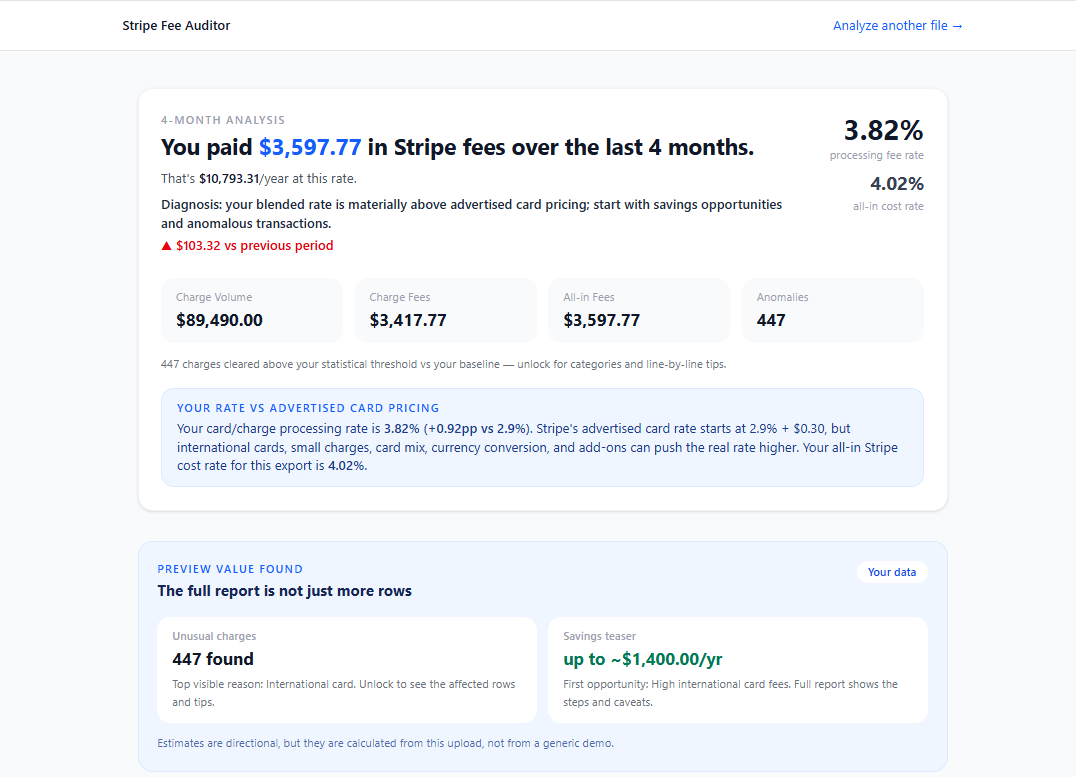
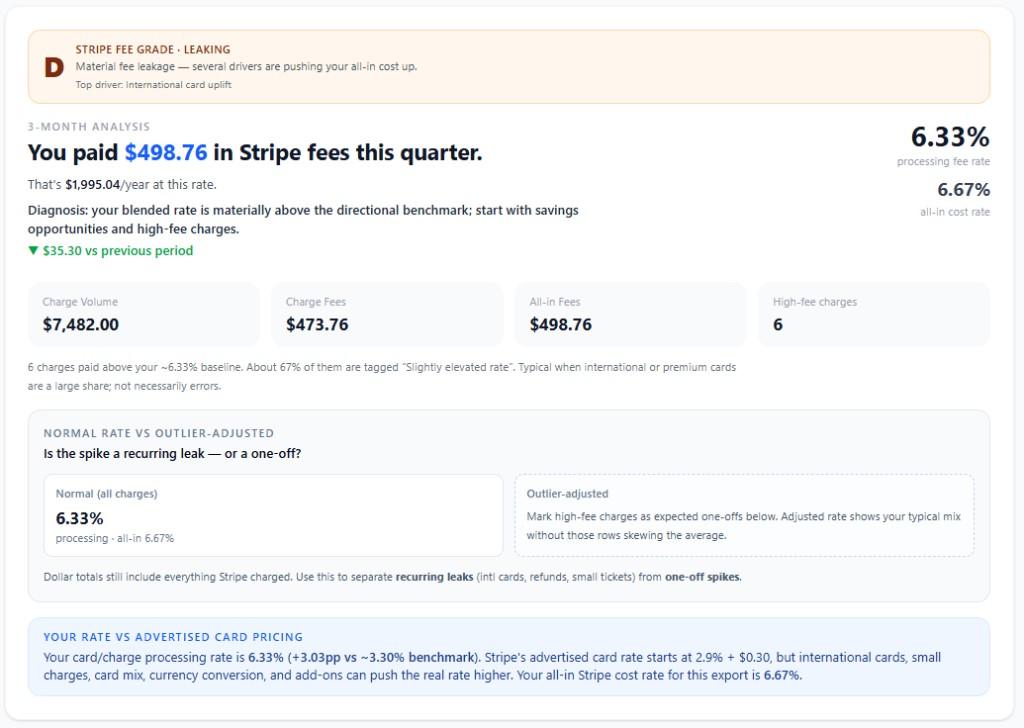
fix(pricing): align CA/AU rates and refresh homepage proof screenshot
Update stripe-country-fees for 2025-2026 published pricing, add FAQ/disclaimer copy for refunds, disputes, Billing 0.7%, and Plans and fees. Replace landing report-preview with Fee Grade sample and sync proof stats.

diff --git a/components/LandingFaq.tsx b/components/LandingFaq.tsx
@@ -90,6 +90,113 @@ export const LANDING_FAQ_ITEMS = [
     ),
   },
   {
+    id: "stripe-refund-policy",
+    q: "Does Stripe return fees when I refund a payment?",
+    text: [
+      "No. Per Stripe's pricing FAQ, when you issue a refund Stripe does not return the processing fees, Connect fees, or currency conversion fees from the original transaction. That can raise your blended effective rate if refunds are common.",
+    ],
+    a: (
+      <p>
+        No. Per{" "}
+        <a
+          href="https://stripe.com/pricing"
+          className="text-blue-600 underline hover:text-blue-800"
+          target="_blank"
+          rel="noopener noreferrer"
+        >
+          Stripe&apos;s pricing FAQ
+        </a>
+        , when you issue a refund Stripe does <strong>not</strong> return the processing fees, Connect fees, or
+        currency conversion fees from the original transaction. That can raise your blended effective rate if
+        refunds are common.
+      </p>
+    ),
+  },
+  {
+    id: "stripe-disputes",
+    q: "What do Stripe disputes and Smart Disputes cost?",
+    text: [
+      "Stripe charges a $15 fee when a dispute is received; that fee is refunded if you win the dispute. Smart Disputes (when enabled) adds 30% of the disputed amount when you win — on top of card processing fees.",
+    ],
+    a: (
+      <p>
+        Stripe charges a <strong>$15</strong> fee when a dispute is received; that fee is refunded if you win the
+        dispute. <strong>Smart Disputes</strong> (when enabled) adds <strong>30% of the disputed amount</strong> when
+        you win — on top of card processing fees. See{" "}
+        <a
+          href="https://stripe.com/pricing"
+          className="text-blue-600 underline hover:text-blue-800"
+          target="_blank"
+          rel="noopener noreferrer"
+        >
+          stripe.com/pricing
+        </a>
+        .
+      </p>
+    ),
+  },
+  {
+    id: "stripe-billing-fees",
+    q: "Does Stripe Billing add fees on top of card processing?",
+    text: [
+      "Yes. Stripe Billing is 0.7% of billing volume (subscriptions, invoices, usage-based billing) on top of standard card processing fees. Tax, Radar, BNPL, and other products have separate published rates.",
+    ],
+    a: (
+      <p>
+        Yes.{" "}
+        <a
+          href="https://stripe.com/billing/pricing"
+          className="text-blue-600 underline hover:text-blue-800"
+          target="_blank"
+          rel="noopener noreferrer"
+        >
+          Stripe Billing
+        </a>{" "}
+        is <strong>0.7%</strong> of billing volume (subscriptions, invoices, usage-based billing) on top of standard
+        card processing fees. Tax, Radar, BNPL, and other products have separate published rates.
+      </p>
+    ),
+  },
+  {
+    id: "stripe-custom-pricing",
+    q: "Why might my Stripe rate differ from published pricing?",
+    text: [
+      "Many accounts have custom or interchange-plus pricing. Regional card mix, manually entered cards (+0.5%), and product add-ons also change the blended rate. Check Dashboard → Settings → Plans and fees for your contract rates.",
+    ],
+    a: (
+      <p>
+        Many accounts have <strong>custom or interchange-plus pricing</strong>. Regional card mix, manually entered
+        cards (+0.5%), and product add-ons also change the blended rate. Check{" "}
+        <strong>Dashboard → Settings → Plans and fees</strong> for your contract rates — our calculator and benchmarks
+        use published list pricing unless noted.
+      </p>
+    ),
+  },
+  {
+    id: "stripe-regional-rates",
+    q: "Do Stripe fees differ by country?",
+    text: [
+      "Yes. Domestic and international card rates vary by account country (US, UK, EU, CA, AU, etc.). UK and EU use tiered cross-border uplifts; Canada international cards add 0.8%; Australia domestic is 1.7% + A$0.30 with lower pricing from 1 Oct 2026.",
+    ],
+    a: (
+      <p>
+        Yes. Domestic and international card rates vary by account country (US, UK, EU, CA, AU, etc.). UK and EU use
+        tiered cross-border uplifts; Canada international cards add <strong>0.8%</strong>; Australia domestic is{" "}
+        <strong>1.7% + A$0.30</strong> with lower pricing from <strong>1 Oct 2026</strong>. Our fee estimator lets you
+        pick a region; exact tiers are on{" "}
+        <a
+          href="https://stripe.com/pricing"
+          className="text-blue-600 underline hover:text-blue-800"
+          target="_blank"
+          rel="noopener noreferrer"
+        >
+          stripe.com/pricing
+        </a>
+        .
+      </p>
+    ),
+  },
+  {
     id: "chatgpt",
     q: "Can I just paste my Stripe CSV into ChatGPT?",
     text: [

diff --git a/app/stripe-fee-calculator/page.tsx b/app/stripe-fee-calculator/page.tsx
@@ -106,6 +106,26 @@ const faqItems = [
       "For many US online card payments, Stripe's published rate is 2.9% + $0.30 per successful charge. On a $100 domestic card payment that is about $3.20 (3.2% effective). International cards, currency conversion, refunds, and small tickets can push the blended rate higher — use the calculator above for your mix, then upload a Balance CSV to see your real rate.",
   },
   {
+    question: "Is this calculator using my actual Stripe rates?",
+    answer:
+      "No. This page uses Stripe's published list pricing by region. Custom or interchange-plus accounts may differ — check Dashboard → Settings → Plans and fees. Upload a Balance CSV to see your real effective rate.",
+  },
+  {
+    question: "Does Stripe return fees when I refund a payment?",
+    answer:
+      "No. Per Stripe's pricing FAQ, when you issue a refund Stripe does not return the processing fees, Connect fees, or currency conversion fees from the original transaction.",
+  },
+  {
+    question: "What do Stripe disputes cost?",
+    answer:
+      "Stripe charges a $15 fee when a dispute is received (refunded if you win). Smart Disputes, when enabled, adds 30% of the disputed amount when you win — on top of card processing fees.",
+  },
+  {
+    question: "Does Stripe Billing add fees on top of card processing?",
+    answer:
+      "Yes. Stripe Billing is 0.7% of billing volume on top of standard card processing fees. See stripe.com/billing/pricing.",
+  },
+  {
     question: "Is this a Stripe fee estimator or a real calculator?",
     answer:
       "The on-page Stripe fees calculator estimates fees from public pricing. Stripe Fee Auditor calculates your real effective Stripe fee rate from your Balance Transactions CSV, so you can compare the estimate with actual numbers.",
@@ -123,7 +143,7 @@ const faqItems = [
   {
     question: "Why can my effective Stripe rate be higher than the published rate?",
     answer:
-      "International cards, currency conversion, refunds, Radar charges, disputes, and micro-transactions can all push your blended effective rate above Stripe's standard published rate.",
+      "International cards, currency conversion, refunds (fees not returned), Stripe Billing (0.7%), Radar, disputes ($15 + Smart Disputes 30% on win), and micro-transactions can all push your blended effective rate above Stripe's standard published rate.",
   },
 ];
 
@@ -195,6 +215,12 @@ export default function StripeFeeCalculatorPage() {
             Stripe Fee Auditor is built for SaaS, ecommerce, subscription, and
             marketplace teams that need a Stripe fee calculator based on actual
             Balance CSV exports instead of averages.
+          </p>
+          <p className="text-sm text-gray-500 leading-relaxed mt-3 rounded-xl border border-gray-100 bg-gray-50 px-4 py-3">
+            Estimates below use Stripe&apos;s <strong>published rates</strong> by region (2025–2026). Your account
+            may differ if you have custom or interchange-plus pricing — confirm in{" "}
+            <strong>Dashboard → Settings → Plans and fees</strong>. Add-ons (Billing 0.7%, disputes, refunds) are
+            not included in the card-fee math.
           </p>
         </div>
 

diff --git a/app/what-percent-does-stripe-take/page.tsx b/app/what-percent-does-stripe-take/page.tsx
@@ -59,7 +59,7 @@ const faqItems = [
   {
     question: "How much does Stripe charge per transaction?",
     answer:
-      "For many US online card payments, Stripe charges 2.9% + $0.30 per successful domestic card transaction. On $100 that is about $3.20. International cards often add about 1.5 percentage points, and currency conversion can add roughly another 1%. Your blended rate across a month is usually higher than any single published line — check it from your Balance CSV.",
+      "For many US online card payments, Stripe charges 2.9% + $0.30 per successful domestic card transaction. On $100 that is about $3.20. International cards often add about 1.5 percentage points, and currency conversion can add roughly another 1%. Rates vary by country — check Dashboard → Settings → Plans and fees for your account.",
   },
   {
     question: "What percentage does Stripe take from a payment?",
@@ -67,9 +67,14 @@ const faqItems = [
       "For many US online card payments, Stripe's published rate starts at 2.9% plus $0.30 per successful charge. The effective percentage on a single charge depends on the charge amount because the fixed $0.30 fee is larger on small payments.",
   },
   {
+    question: "Does Stripe return fees when I refund a payment?",
+    answer:
+      "No. Per Stripe's pricing FAQ, when you issue a refund Stripe does not return the processing fees, Connect fees, or currency conversion fees from the original transaction.",
+  },
+  {
     question: "Why is my real Stripe rate higher than 2.9%?",
     answer:
-      "International cards, currency conversion, Stripe Billing fees, refunds, disputes, Radar, and small transaction sizes can all push your real blended Stripe rate above the headline percentage.",
+      "International cards, currency conversion, Stripe Billing (0.7% on billing volume), refunds (fees not returned), disputes ($15 + Smart Disputes 30% on win), Radar, and small transaction sizes can all push your real blended Stripe rate above the headline percentage.",
   },
   {
     question: "How do I check the actual percentage Stripe took?",
@@ -142,6 +147,10 @@ export default function WhatPercentDoesStripeTakePage() {
             <strong className="text-gray-900">2.9% + $0.30</strong> per successful charge
             (about $3.20 on $100). The real percentage you pay can be higher once small charges,
             international cards, currency conversion, refunds, and other Stripe fee lines show up.
+          </p>
+          <p className="mt-3 text-sm leading-relaxed text-gray-500 rounded-xl border border-gray-100 bg-gray-50 px-4 py-3">
+            Published list rates only — custom or interchange-plus pricing may differ. Confirm yours in{" "}
+            <strong>Dashboard → Settings → Plans and fees</strong>.
           </p>
         </header>
 

diff --git a/app/why-stripe-fee-rate-higher-than-2-9/page.tsx b/app/why-stripe-fee-rate-higher-than-2-9/page.tsx
@@ -79,18 +79,25 @@ const reasons = [
     number: "03",
     title: "Refunds",
     description:
-      "Stripe keeps the processing fee when you issue a refund. The original transaction fee is not returned. A 5% refund rate adds meaningful cost across large volumes.",
+      "Per Stripe's pricing FAQ, when you issue a refund Stripe does not return the processing fees, Connect fees, or currency conversion fees from the original transaction. A 5% refund rate adds meaningful cost across large volumes.",
     example: "5% refund rate on $100k revenue = $145 in non-refundable fees",
   },
   {
     number: "04",
+    title: "Disputes",
+    description:
+      "Each dispute carries a $15 received fee (refunded if you win). Smart Disputes adds 30% of the disputed amount when you win — on top of card processing.",
+    example: "$100 disputed charge won with Smart Disputes: $15 fee refunded + $30 Smart Disputes fee",
+  },
+  {
+    number: "05",
     title: "Stripe Radar",
     description:
       "If you use Radar for fraud protection beyond the basic included tier, there's an additional $0.02–$0.07 per transaction. This shows up as a separate line in your Balance report.",
     example: "1,000 transactions × $0.05 Radar fee = $50/month extra",
   },
   {
-    number: "05",
+    number: "06",
     title: "Micro-Transactions",
     description:
       "On small charges, the fixed $0.30 component dominates. A $2.00 charge has an effective rate of 17.9% — this drags up your average significantly if you have many small payments.",
@@ -107,7 +114,12 @@ const faqItems = [
   {
     question: "Does Stripe return processing fees when I refund a payment?",
     answer:
-      "No. When you issue a refund, Stripe generally does not return the original processing fee. This can increase your effective fee rate if your business has a meaningful refund rate.",
+      "No. Per Stripe's pricing FAQ, when you issue a refund Stripe does not return the processing fees, Connect fees, or currency conversion fees from the original transaction. This can increase your effective fee rate if your business has a meaningful refund rate.",
+  },
+  {
+    question: "What do Stripe disputes and Smart Disputes cost?",
+    answer:
+      "Stripe charges a $15 fee when a dispute is received (refunded if you win). Smart Disputes, when enabled, adds 30% of the disputed amount when you win.",
   },
   {
     question: "How can I calculate my real Stripe effective fee rate?",

diff --git a/lib/stripe-country-fees.ts b/lib/stripe-country-fees.ts
@@ -1,4 +1,9 @@
-/** Published Stripe card pricing by account country — illustrative, not a live API. */
+/**
+ * Published Stripe card pricing by account country — illustrative, not a live API.
+ * Source: stripe.com/{us,gb,ie,ca,au}/pricing (2025–2026). Simplified cross-border uplifts;
+ * UK/EU use tiered intl rates on Stripe's site (+1.9%/+2.9% UK, +1.1% EU non-EEA) — see FAQ.
+ * Custom/IC+ accounts: Dashboard → Settings → Plans and fees.
+ */
 
 export type StripeAccountCountry = "US" | "UK" | "EU" | "CA" | "AU";
 
@@ -34,6 +39,7 @@ export const STRIPE_ACCOUNT_COUNTRIES: CountryFeeProfile[] = [
     label: "United Kingdom",
     domesticPercent: 0.015,
     domesticFixed: 0.2,
+    /** Simplified; Stripe GB: +1.9% non-UK EEA cards, +2.9% non-EEA — stripe.com/gb/pricing */
     crossBorderPercent: 0.015,
     currencyConversionPercent: 0.02,
     currency: "GBP",
@@ -44,6 +50,7 @@ export const STRIPE_ACCOUNT_COUNTRIES: CountryFeeProfile[] = [
     label: "European Union",
     domesticPercent: 0.015,
     domesticFixed: 0.25,
+    /** Simplified; Stripe EU: +1.1% for cards issued outside EEA — stripe.com/ie/pricing */
     crossBorderPercent: 0.015,
     currencyConversionPercent: 0.02,
     currency: "EUR",
@@ -57,7 +64,8 @@ export const STRIPE_ACCOUNT_COUNTRIES: CountryFeeProfile[] = [
     label: "Canada",
     domesticPercent: 0.029,
     domesticFixed: 0.3,
-    crossBorderPercent: 0.015,
+    /** International cards: +0.8% — stripe.com/ca/pricing */
+    crossBorderPercent: 0.008,
     currencyConversionPercent: 0.02,
     currency: "CAD",
     domesticCardCountries: ["CA"],
@@ -65,9 +73,11 @@ export const STRIPE_ACCOUNT_COUNTRIES: CountryFeeProfile[] = [
   {
     id: "AU",
     label: "Australia",
-    domesticPercent: 0.0175,
+    /** Domestic online cards: 1.7% + A$0.30 — stripe.com/au/pricing (lower pricing from 1 Oct 2026). */
+    domesticPercent: 0.017,
     domesticFixed: 0.3,
-    crossBorderPercent: 0.015,
+    /** International cards: +2.0% — stripe.com/au/pricing */
+    crossBorderPercent: 0.02,
     currencyConversionPercent: 0.02,
     currency: "AUD",
     domesticCardCountries: ["AU"],

diff --git a/app/page.tsx b/app/page.tsx
@@ -43,10 +43,10 @@ const hasReportsAnalyzedCount = Number.isFinite(reportsAnalyzedCount) && reports
 const reportsAnalyzedLabel = new Intl.NumberFormat("en-US").format(reportsAnalyzedCount);
 
 const PROOF_STATS = [
-  { label: "Stripe fees", value: "$3,597.77" },
-  { label: "Processing rate", value: "3.82%" },
-  { label: "All-in cost", value: "4.02%" },
-  { label: "High-fee charges", value: "447" },
+  { label: "Stripe fees (quarter)", value: "$498.76" },
+  { label: "Processing rate", value: "6.33%" },
+  { label: "All-in cost", value: "6.67%" },
+  { label: "Fee grade", value: "D" },
 ] as const;
 
 const PAIN_LINKS = [
@@ -288,9 +288,9 @@ export default function HomePage() {
           <div className="mt-10 overflow-hidden rounded-2xl border border-slate-200 bg-white shadow-xl shadow-slate-200/60">
             <Image
               src="/screenshots/report-preview.png"
-              alt="Stripe Fee Auditor report showing $3,597.77 in fees, 3.82% processing rate, 4.02% all-in cost rate, and savings teaser"
-              width={1076}
-              height={777}
+              alt="Stripe Fee Auditor report: Fee Grade D, $498.76 in quarter fees, 6.33% processing rate, 6.67% all-in cost, and comparison vs advertised 2.9% card pricing"
+              width={1024}
+              height={728}
               sizes="(min-width: 1024px) 960px, 100vw"
               className="h-auto w-full"
             />

diff --git a/components/stripe-fee-mini-estimate.tsx b/components/stripe-fee-mini-estimate.tsx
@@ -240,9 +240,10 @@ export function StripeFeeMiniEstimate({ compact = false }: Props) {
           <p className="mt-4 text-xs leading-relaxed text-gray-500">
             {estimate.monthlyVolume > 0 && estimate.midRate > estimate.publishedRate
               ? `Your rough estimate (${formatRate(estimate.lowRate)}–${formatRate(estimate.highRate)}) sits above the headline domestic rate (${(estimate.publishedRate * 100).toFixed(2)}% effective on this mix). `
-              : "This is only a published-pricing estimate. "}
-            The exact gap depends on international cards, refunds, small charges, and other fee lines —
-            not this form.
+              : "Published list pricing only — confirm your contract in Dashboard → Settings → Plans and fees. "}
+            Refund fees are not returned; Billing adds 0.7% on subscription volume; disputes are $15 (refunded if won)
+            plus Smart Disputes 30% on win. The exact gap depends on international cards, refunds, small charges, and
+            other fee lines — not this form.
           </p>
         </div>
       </div>

diff --git a/tests/test-algorithm.ts b/tests/test-algorithm.ts
@@ -688,6 +688,17 @@ test("estimateCountryStripeFee adds international uplift", () => {
   assert(intl.estimatedFee > domestic.estimatedFee, "intl share should increase estimated fee");
 });
 
+test("CA profile uses 0.8% international uplift per stripe.com/ca/pricing", () => {
+  const profile = getCountryFeeProfile("CA");
+  assertClose(profile.crossBorderPercent, 0.008, 0.0001, "CA intl uplift");
+});
+
+test("AU profile uses 1.7% domestic and 2.0% international per stripe.com/au/pricing", () => {
+  const profile = getCountryFeeProfile("AU");
+  assertClose(profile.domesticPercent, 0.017, 0.0001, "AU domestic percent");
+  assertClose(profile.crossBorderPercent, 0.02, 0.0001, "AU intl uplift");
+});
+
 test("UK account treats GB cards as domestic and US cards as international", () => {
   const rows = makeCharges(60, "2024-01", 3.2).map((row, index) => ({
     ...row,
